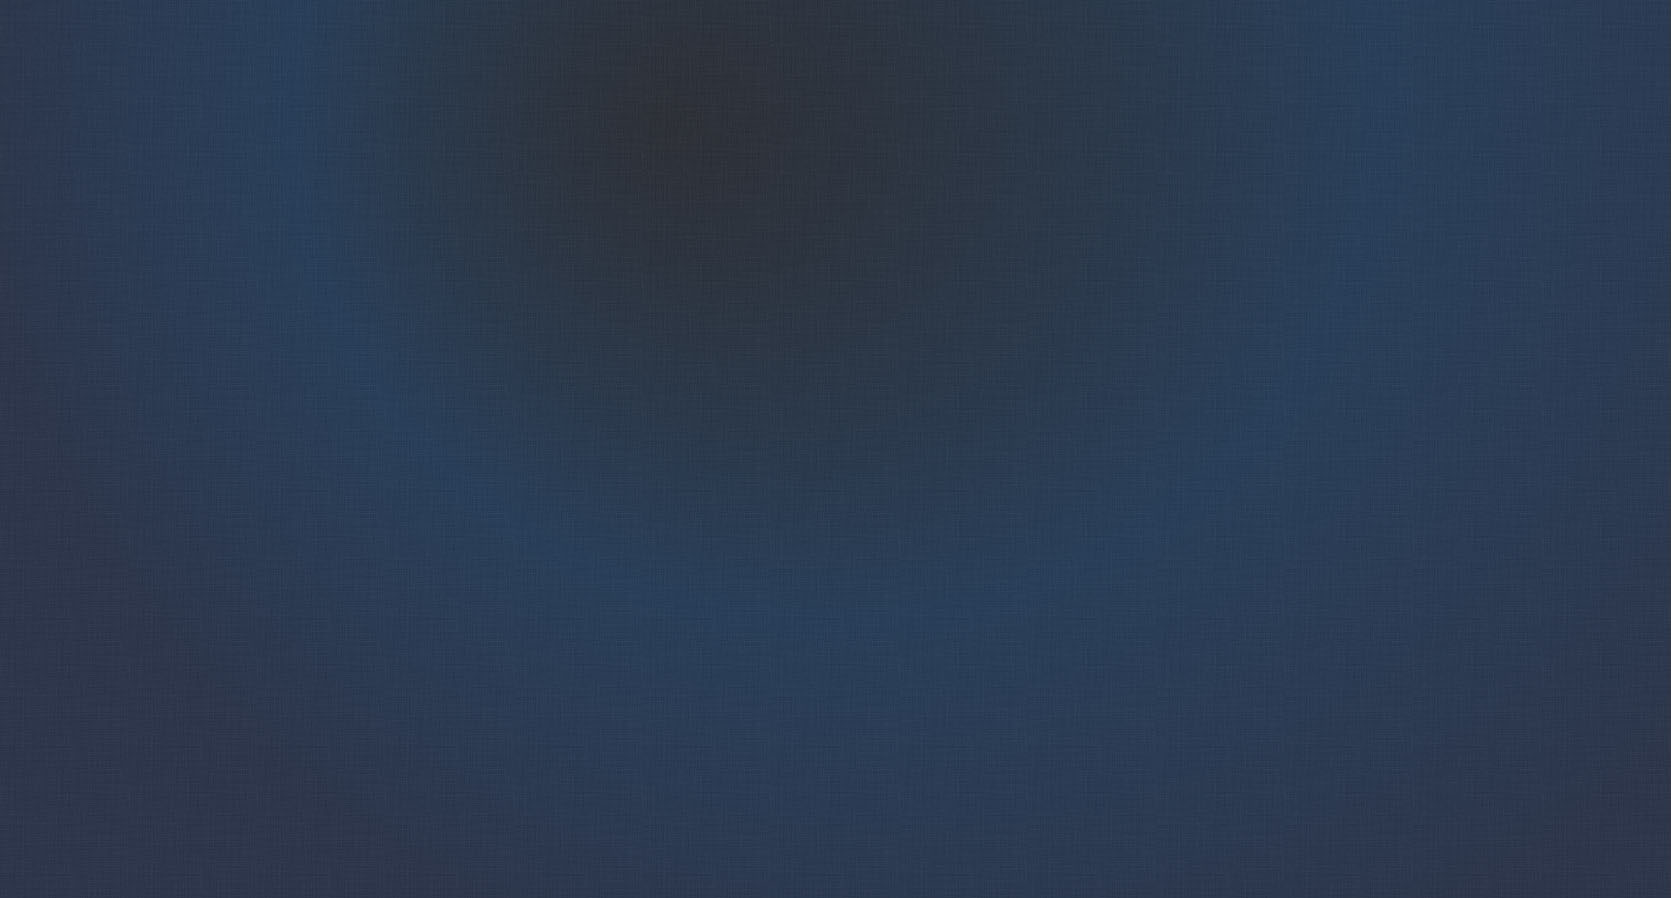
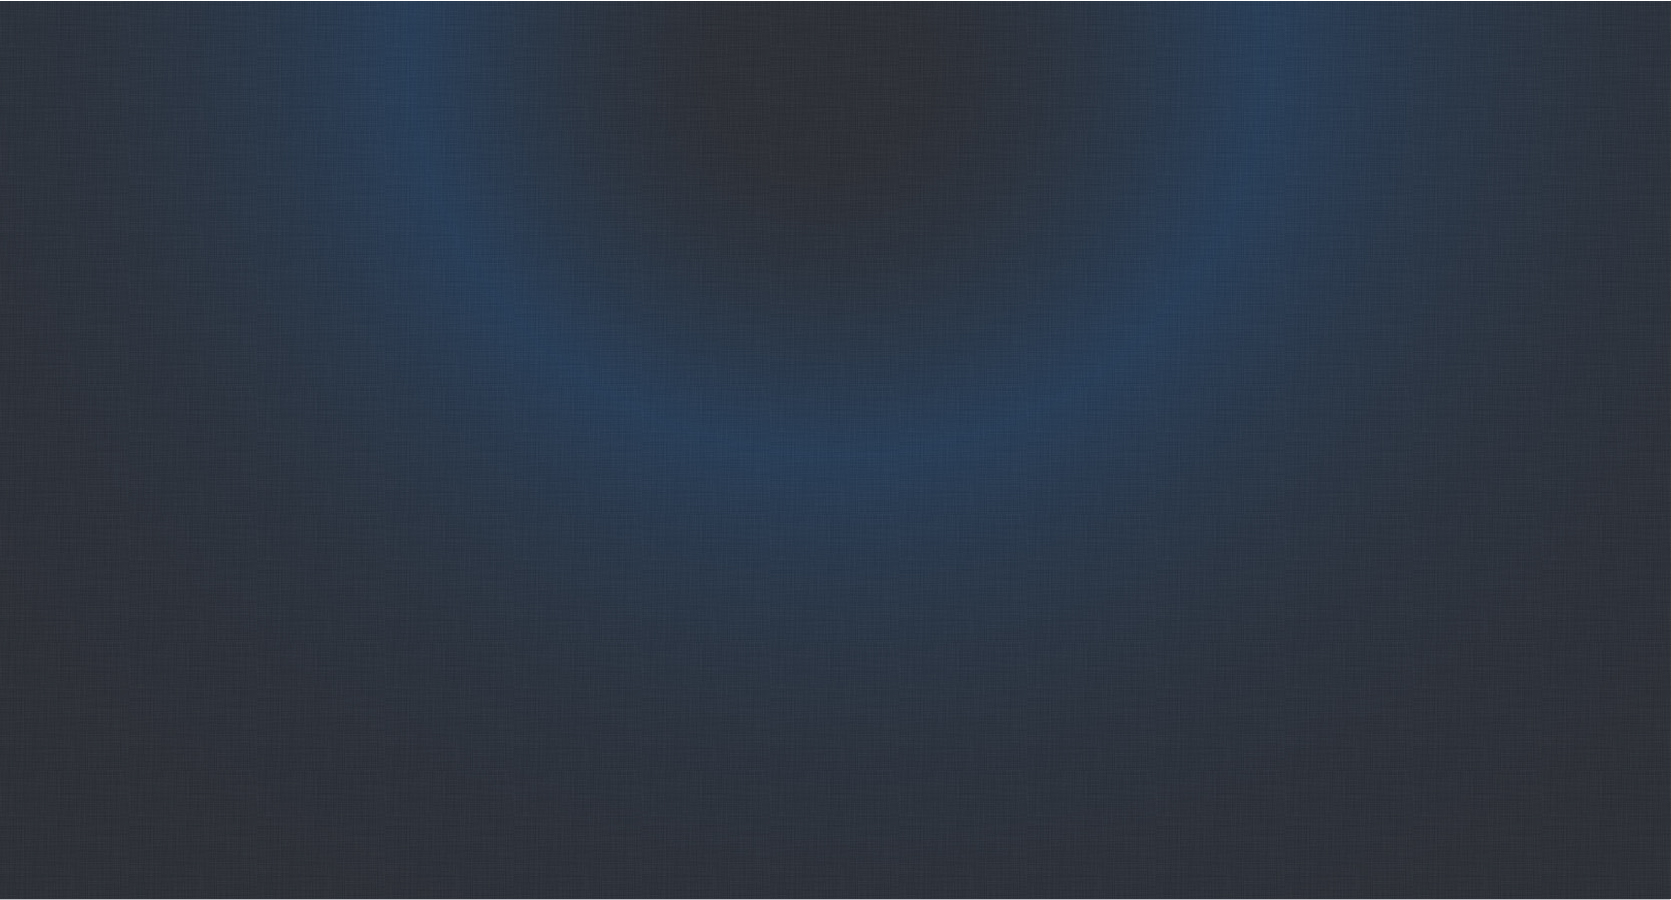
disgin merge

diff --git a/css/blue.css b/css/blue.css
@@ -1,13 +1,16 @@
 @charset "utf-8";
 /* CSS Document */
 *{ -webkit-box-sizing: border-box; box-sizing: border-box; -webkit-user-select: none; outline: none; -webkit-tap-highlight-color: transparent; -webkit-tap-highlight-color: transparent;}
-html,body{ padding:0; margin:0; font-family:"Arial","微软雅黑"; font-size: 14px; color: #fff; background:#2c313a url(../images/bg_blue.jpg) no-repeat fixed; background-size: 100% 100%; }
+html,body{ padding:0; margin:0; font-family:"Arial","微软雅黑"; font-size: 14px; color: #fff; background:#181f28 url(../images/cloth.png) repeat;}
 html,body{-webkit-text-size-adjust:none;} 
 h1,h2,h3,h4,h5,h6,div,span,ul,li,hr,p,input,select{ margin:0; padding:0;}
 ul{list-style-type:none}
 a{ text-decoration:none; border: none;}
 a img{ border: none;}
 form{margin:0; padding:0;}
+button,input,optgroup,select,textarea { color: inherit; font: inherit; margin: 0; }
+button { overflow: visible; }
+button,select {text-transform: none; }
 .clear{ clear:both;}
 .fl{ float:left;}
 .fr{ float:right;}
@@ -16,6 +19,8 @@ form{margin:0; padding:0;}
 .fontGray,a.fontGray{color:#999999;}
 .more{float: right; font-size:12px; color:#999999;}
 
+.globalBg{background:rgba(25,38,62,0.2) url(../images/bg_mark.png) no-repeat fixed; background-size: 100% 100%; width:100%; height:100%;position: fixed; top: 0; bottom: 0; left: 0; right: 0; z-index: 0;}
+.globalBg:after{clear: both;content: "."; display: block;font-size: 1px; height: 0;visibility: hidden;}
 .bgRed{ background: #E75A49;}
 .bgGreen{ background: #33DD00;}
 
@@ -24,16 +29,18 @@ form{margin:0; padding:0;}
 .caret {display: inline-block; width: 0; height: 0;margin-left: 2px;vertical-align: middle; border-top: 4px dashed; border-right: 4px solid transparent; border-left: 4px solid transparent;}
 
 
-a.btn {padding: 4px 12px; border:solid 1px #515D6E; color:#fff; font-size:12px; cursor:pointer; line-height:20px; display:block; float:left; margin:0px;}
-.btn-group-lg a.btn, .btn-lg { padding: 5px 15px !important; }
+a.btn {padding: 4px 25px; border:solid 1px #515D6E; color:#fff; font-size:12px; cursor:pointer; line-height:20px; display:block; float:left; margin:0px;}
+.btn-group-lg a.btn, .btn-lg { padding: 5px 15px !important; font-size:13px;}
 .btn-group-sm a.btn, .btn-sm { padding: 2px 6px !important; font-size:10px;}
 a.btn:hover{background:rgba(25,39,53,1.0);border: 1px solid #5C7589; border-bottom-color:#0B50A2; opacity:1; box-shadow: 0 0 4px rgba(0,0,0,.4);-webkit-box-shadow: 0 0 4px rgba(0,0,0,.4);-moz-box-shadow: 0 0 4px rgba(0,0,0,.4);}
 a.btn-group.open .dropdown-toggle {-webkit-box-shadow: 0 0 0 100px rgba(0, 0, 0, 0.1) inset;box-shadow: 0 0 0 100px rgba(0, 0, 0, 0.1) inset;}
 a.btn-default {background:rgba(25,39,53,0.5);}
 a.btn-primary {background:rgba(25,39,53,0.4);background:-moz-linear-gradient(top, #2A343F, #17222D 70%);background: -webkit-gradient(linear, 0 0, 0 70%, from(#2A343F), to(#17222D));}
-a.dropdown-toggle, a.dropdown-toggle:hover{background:rgba(11,80,162,0.5)}
+a.btn-color {background:rgba(11,80,162,0.6); border-color:#0B50A2;}
+a.btn-light {background:rgba(255,255,255,0.03);border-color:#323b4c;}
+a.dropdown-toggle, a.dropdown-toggle:hover{background:rgba(11,80,162,0.5);border-color:#0B50A2;}
 .dropdown-toggle{position: relative; float: left;}
-.btn.disabled, .btn[disabled]{pointer-events: none;cursor: not-allowed; filter: alpha(opacity=65); -webkit-box-shadow: none; box-shadow: none;opacity: .6;}
+.btn.disabled, .btn[disabled]{pointer-events: none;cursor: not-allowed; filter: alpha(opacity=50); -webkit-box-shadow: none; box-shadow: none;opacity: .5;}
 .btn i{line-height:20px;}
 
 em.statusIcon{width: 18px;text-align: center;height: 18px;line-height: 22px;border-radius: 50%; color:#fff; display:inline-block; -webkit-box-shadow: 0 0 0 100px rgba(0, 0, 0, 0.1) inset;box-shadow: 0 0 0 100px rgba(0, 0, 0, 0.1) inset; }
@@ -61,7 +68,7 @@ a.textlinkb i, .textlinkb a i{vertical-align: text-bottom; width:14px;}
 #content { margin-left: 210px;  margin-top: 45px; padding-top: 15px; min-height: 500px;-webkit-box-flex: 1; -ms-flex: 1 0 auto;flex: 1 0 auto; position: relative;transition: all 0.3s ease;}
 
 /*left---------------------------------------------------*/
-.left_top{ background: rgba(11,80,162,0.8); padding: 10px 2px 8px 16px;  border-bottom:1px solid #000; font-size:12px; }
+.left_top{ background: rgba(11,80,162,0.8); padding: 10px 2px 8px 10px;  border-bottom:1px solid #000; font-size:12px; }
 .left_top .nameTop{ float:left;padding:4px 0;}
 .left_top .name{ float:left; /*font-size:16px;*/ overflow:hidden; width:148px; white-space: nowrap; word-break: keep-all; text-overflow: ellipsis;}
 .left_top .name em{vertical-align: text-bottom; margin-right: 4px;}
@@ -98,17 +105,20 @@ a.textlinkb i, .textlinkb a i{vertical-align: text-bottom; width:14px;}
 .menu li a:hover i{color:#0B50A2;}
 .menu li i{ vertical-align: text-bottom; margin:0 10px 2px 5px; color:#9BA5A7; width:16px;}
 .menu li.open{background:rgba(25,39,53,0.6);}
-.menu li.open a{border-bottom:none; opacity:1.0; background:none;}
+.menu li.open a{border-bottom:none; opacity:1.0; background:none; margin-left:10px;}
 
 ul.sidebarNav{position:absolute; left:0; top:37px; width:100%;}
 ul.sidebarNav li {padding-left:25px;}
 ul.sidebarNav li a{line-height:24px;}
 ul.sidebarNav li a:hover{opacity:1.0; background:rgba(25,39,53,0.8);}
-.menu li.open,ul.sidebarNav li.select{border-left:6px solid #0B50A2; background:rgba(25,39,53,0.8);}
-ul.sidebarNav li.select a{margin-left:9px;opacity:1.0;}
-ul.sidebarNav li.select a:hover{;opacity:1.0;}
+.menu li.open,ul.sidebarNav li.select{border-left:6px solid #0B50A2; background:rgba(25,39,53,.8);}
+ul.sidebarNav li.select{background:rgba(0,0,0,0.15);}
+ul.sidebarNav li.select a{margin-left:9px;}
+ul.sidebarNav li a:hover{background:rgba(0,0,0,0.1);}
+ul.sidebarNav li.select a:hover{background:transparent;}
 .menu li.open > a > i, .menu li .sidebarNav .select a i{color:#fff;}
 .menu li.expand{border-left:0;}
+.menu li.expand a{margin-left:15px;}
 
 /*running task-------------*/
 .taskList {display: block; margin: 0 15px; font-size:12px; opacity:.8;}
@@ -145,7 +155,7 @@ ul.sidebarNav li.select a:hover{;opacity:1.0;}
 .jtTop a,.jtDown a{ border: 1px solid #515D6E; display: block; margin: 0 10%; background: rgba(25,39,53,0.4);}
 .jtTop a:hover,.jtDown a:hover{ background: #0B50A2;}
 .jtTop img,.jtDown img{ padding: 1px;}
-.globalAction a, a.globalAction{ width:21px; height:24px; background:transparent;margin:0 auto; text-align:center; display:inline-block; color:#fff; opacity:.6;}
+.globalAction a, a.globalAction{ width:23px; height:24px; background:transparent;margin:0 auto; text-align:center; display:inline-block; color:#fff; opacity:.6;}
 .globalAction a i{padding-top:4px; transform:scale(1.3)}
 .globalAction a:hover, a.globalAction:hover{opacity:1;}
 .globalAction a:hover i, a.globalAction:hover i{color:#fff;}
@@ -215,7 +225,7 @@ a.collapseBtn i{padding-top:8px;padding-left:11px;}
 .rFloatDiv .actionBar{ margin:20px 10px 10px;}
 
 .rFloatDiv .clusterList{ display: block; width:100%;}
-.rFloatDiv .clusterList li.select{ background: rgba(77,100,120,0.3);}
+.rFloatDiv .clusterList li.select{ background: rgba(255,255,255,0.05)}
 .rFloatDiv .clusterList li a{ margin: 0px 15px 0; padding-top:15px; padding-bottom:10px; overflow:hidden; display:block; border-bottom: 1px solid #364955;}
 .leftPic{ width: 60px; padding-right: 5px; text-align: center; font-size: 12px; color: #9DA5A8; vertical-align:text-bottom;}
 .leftPic span{ text-align:left; width:100%; display:inline-block;padding-top: 2px}
@@ -245,9 +255,9 @@ a.collapseBtn i{padding-top:8px;padding-left:11px;}
 .actionTopbar{margin:8px 0;}
 .actionTopbar:after{clear: both;content: "."; display: block;font-size: 1px; height: 0;visibility: hidden;}
 .filter-group, .filter-group a,.filter-group input{float:left;}
-.filter-group .form-control{padding: 5px; border:solid 1px #515D6E; color:#fff; font-size:12px; cursor:pointer; line-height:20px; padding-left: 10px;background:rgba(25,39,53,0.5); padding-right: 40px; margin-top: 1px; margin-left: 10px;width: 180px;}
+.filter-group .form-control{padding: 5px; border:solid 1px #515D6E; color:#fff; font-size:12px; cursor:pointer; line-height:20px; padding-left: 10px;background:rgba(25,39,53,0.5); padding-right: 40px; margin-top: 0px; margin-left: 10px;margin-right: 0px;width: 180px;}
 .filter-group .form-control:hover{ border:solid 1px #5C7589;}
-.filter-group a.btn {color: rgba(255, 255, 255, 0.7);padding: 5px 10px; margin-left:-1px;margin-top:1px;}
+.filter-group a.btn {color: rgba(255, 255, 255, 0.7);padding: 5px 10px; margin-left:-1px;margin-top:0px;}
 
 
 .dropdown-menu { position: absolute;top:90%; left: 0;z-index: 1010; float: left;min-width: 120px; border: 1px solid #515D6E; -webkit-background-clip: padding-box;background-clip: padding-box;background:rgba(25,39,53,1);  -webkit-box-shadow: 0 6px 12px rgba(0,0,0,.175); box-shadow: 0 6px 12px rgba(0,0,0,.175);}
@@ -258,16 +268,16 @@ ul.dropdown-menu{margin: 2px 0 0;text-align: left; color:#8a9396;font-size: 12px
 .dropdown-menu a{padding: 6px 15px; color:#fff; display:block;}
 .dropdown-menu a:hover{ background: rgba(11,80,162,0.5);}
 .dropdown-menu .divider { height: 1px; margin: 3px 0; overflow: hidden; background-color: #374551;}
-.dropdown-menu .disable a,.dropdown-menu .disable a:hover{color:#374551; background:transparent;}
+.dropdown-menu .disabled a,.dropdown-menu .disabled a:hover{color:#374551; background:transparent;}
 
-.blockArea{padding: 0px 0px 15px; width:100%;float: left;background:rgba(25,39,53,0.2);box-shadow: 0 0 5px rgba(0, 0, 0, 0.15); margin:0 0 10px;}
+.blockArea{padding: 0px 0px 15px; width:100%;float: left;background:rgba(25,39,53,0.4);box-shadow: 0 0 5px rgba(0, 0, 0, 0.2); margin:0 0 10px;}
 .blockArea .slimScrollDiv{position:relative;}
 .blockArea .slimScrollBar,.blockArea .slimScrollRail{ right:-15px; width:14px;}
 .contentDiv:after, .blockArea:after, .floatArea:after{clear: both;content: "."; display: block;font-size: 1px; height: 0;visibility: hidden;}
-.fixedContent { background:rgba(25,39,53,0.9); margin-left:230px;padding-top:5px;}
+.fixedContent { background:rgba(25,39,53,0.9); margin-left:230px;padding-top:3px;}
 .fixedContent :after{clear: both;content: "."; display: block;font-size: 1px; height: 0;visibility: hidden;}
-.fixedContent .tableHeader{margin-top:10px;margin-right:20px;}
-.fixedContent .actionTopbar{margin-left:15px; }
+.fixedContent .tableHeader{margin-top:8px;margin-right:20px;}
+.fixedContent .actionTopbar{margin:4px 0 0px 15px; }
 .floatArea{width:100%;position: fixed;z-index: 1030;left: 0;top: 45px;}
 
 .tableSelectInfo{ width: 40%;color: #8a9396;font-size: 12px;  padding-top: 10px;white-space: nowrap; overflow:hidden;float: left;margin-right: 10px;}
@@ -276,18 +286,23 @@ ul.dropdown-menu{margin: 2px 0 0;text-align: left; color:#8a9396;font-size: 12px
 .fade { -webkit-transition: opacity .3s linear; transition: opacity .3s linear;}
 .popupBackdrop { position: fixed; top: 0; right: 0;bottom: 0;left: 0; z-index: 1080;background-color: #fff; opacity:.1;}
 button.close {-webkit-appearance: none;padding: 0;cursor: pointer;background: 0 0;border: 0;}
-.close {float: right;font-size: 21px; font-weight: 700;line-height: 1;color: #fff;text-shadow: 0 1px 0 #000; filter: alpha(opacity=20);opacity: .2;}
+.close {float: right;font-size: 21px; font-weight: 700;line-height: 1;color: #fff;text-shadow: 0 1px 0 #000; filter: alpha(opacity=20);opacity: .3;}
 button.close:hover{opacity:1;}
 
 .popup{position: fixed;top: 0; right: 0; bottom: 0; left: 0; z-index: 1100; display: none;overflow: hidden; -webkit-overflow-scrolling: touch; outline: 0;}
-.popupDiv{position: relative;width: 600px;margin: 30px auto;}
-.popupContent{ position: relative; border: 1px solid #364955; background: rgba(25,39,53,1) ; box-shadow: 0 0 7px rgba(0,0,0,.7);-webkit-box-shadow: 0 0 7px rgba(0,0,0,.7);-moz-box-shadow: 0 0 7px rgba(0,0,0,.7);min-height:300px;}
+.popupDiv{position: relative;width: 620px;margin: 40px auto 20px;}
+.popupContent{ position: relative; border: 1px solid #000; background: rgba(25,39,53,1) ; box-shadow: 0 0 7px rgba(0,0,0,.7);-webkit-box-shadow: 0 0 7px rgba(0,0,0,.7);-moz-box-shadow: 0 0 7px rgba(0,0,0,.7);min-height:200px;}
 
-.contentHeader{padding:0 15px;background: rgba(0,0,0,0.2);}
-.contentHeader h4{border-bottom: 1px solid #0C50A3; line-height:35px; padding:10px 0 5px;}
+.contentHeader{padding:0 20px;background: rgba(0,0,0,0.1);}
+.contentHeader h4{border-bottom: 1px solid #0C50A3; line-height:35px; padding:10px 0 5px; text-indent:2px; font-size:16px; font-weight:normal;}
 .contentHeader button.close{padding-top:12px;}
-.contentBody{position: relative;padding: 15px;}
-.contentFooter{ padding: 10px 0; text-align: right; border-top:1px solid #364955; margin:0 15px;}
+.contentBody{position: relative;padding: 10px 20px;}
+.contentFooter{ padding: 5px 0 0 20px; text-align: ; border-top:0px solid #364955; margin:0px 20px 20px 20px;}
+.contentHeader:after, .contentBody:after, .contentFooter:after{clear: both;content: "."; display: block;font-size: 1px; height: 0;visibility: hidden;}
+
+.alert { padding: 15px;margin-bottom: 20px;}
+.alert-info {color: #8a9396; background-color: #d9edf7; border: 1px solid transparent; font-size:12px;}
+.contentHeader+.alert {border:none; background:none; padding:10px 20px 5px; margin:0 20px;}
 
 
 

diff --git a/volume/volume.html b/volume/volume.html
@@ -17,6 +17,7 @@
 </head>
 
 <body>
+<div class="globalBg"></div>
 <div class="rFloatDiv">
     <a class="collapseBtn" style="display:;"><i class="zmdi zmdi-format-list-bulleted"></i></a>
 </div>
@@ -149,19 +150,98 @@
                 <div class="popupContent">
                     <div class="contentHeader">
                         <button type="button" class="close" data-dismiss="modal" aria-hidden="true">×</button>
-                        <h4 class="modal-title">Modal Dialog</h4>
+                        <h4>扩展卷－DiaNAS</h4>
+                    </div>
+                    <div class="alert alert-info">
+                    	您已选择扩展卷－DiaNAS的容量，该操作会增加卷中的可用容量。
                     </div>
                     <div class="contentBody">
-                        
-                        
+                    	<table class="table-input">
+                            <tbody >
+                                <tr>
+                                    <td style="width:22%;"><label>当前大小:</label></td>
+                                    <td><input type="text" class="form-control" placeholder="100"><em>GiB</em></td>                                  
+                                </tr>
+                                <tr>
+                                    <td><label>扩展量:</label></td>
+                                    <td><input type="text" class="form-control" placeholder="100"><select class="form-control"><option>GiB</option><option>MiB</option><option>TiB</option></select></td>                                  
+                                </tr>
+                                <tr>
+                                    <td><label>最大最终大小:</label></td>
+                                    <td>1552.00 GiB</td>                                  
+                                </tr>
+                            </tbody>
+                         </table>
                     </div>
-                    <div class="contentFooter">
-                        <a href="javascript:;" id="closeAction" class="btn btn-default m-r-10" data-dismiss="modal">Close</a>
-                        <a href="javascript:;" class="btn btn-primary">Submit</a>
+                    <div class="contentFooter">                       
+                        <a href="javascript:;" id="closeAction" class="btn btn-light" data-dismiss="modal">取消</a>
+                        <a href="javascript:;" class="btn btn-color disabled  m-r-10">扩展</a>
                     </div>
                 </div>
             </div>
         </div>
+        
+        <!--<div class="popup fade" style="display: none;">
+            <div class="popupDiv" style="display:none" id="createVolumePopup">
+                <div class="popupContent">
+                    <div class="contentHeader">
+                        <button type="button" class="close" data-dismiss="modal" aria-hidden="true">×</button>
+                        <h4>迁移卷拷贝</h4>
+                    </div>
+                    <div class="alert alert-info">
+                    	您已选择迁移池Pool 2 中的卷DiaNAS。 请选择该卷将迁移到的新池。源池和目标池的扩展数据块大小必需一致。
+                    </div>
+                    <div class="contentBody">
+                    	<table class="table table-hover">
+                            <thead>
+                                <tr>
+                                    <td></td>
+                                    <td width="15%">名称</td>
+                                    <td width="25%">状态</td>
+                                    <td width="25%">可用容量</td>
+                                    <td width="30%">容量</td>
+                                </tr>
+                             </thead>
+                             <tbody>   
+                                <tr>
+                                    <td><input type="radio"></td>
+                                    <td>Pool 2</td>
+                                    <td>联机</td>
+                                    <td>4.77 TiB</td>
+                                    <td>4.88 TiB</td>
+                                </tr>
+                                <tr>
+                                    <td><input type="radio"></td>
+                                    <td>Pool 2</td>
+                                    <td>联机</td>
+                                    <td>4.77 TiB</td>
+                                    <td>4.88 TiB</td>
+                                </tr>
+                                <tr class="selected">
+                                    <td><input type="radio"></td>
+                                    <td>Pool 2</td>
+                                    <td>联机</td>
+                                    <td>4.77 TiB</td>
+                                    <td>4.88 TiB</td>
+                                </tr>
+                                <tr>
+                                    <td><input type="radio"></td>
+                                    <td>Pool 2</td>
+                                    <td>联机</td>
+                                    <td>4.77 TiB</td>
+                                    <td>4.88 TiB</td>
+                                </tr>
+                             </tbody>   
+                         </table>
+                    </div>
+                    <div class="contentFooter">
+                        
+                        <a href="javascript:;" id="closeAction" class="btn btn-light  m-r-10" data-dismiss="modal">取消</a>
+                        <a href="javascript:;" class="btn btn-color">迁移</a>
+                    </div>
+                </div>
+            </div>
+        </div>-->
             
         <div class="blockArea">
             <div class="tableBody">

diff --git a/css/component.css b/css/component.css
@@ -244,6 +244,33 @@
 }
 
 
+/*-Input-*/
+.form-control {
+  display: inline-block;
+  width: auto;
+  padding: 4px 10px;
+  margin:0px 4px;
+  line-height:20px;
+  font-size: 12px;
+  color: #fff;
+  background:rgba(25,39,53,1);
+  background-image: none;
+  border: 1px solid #515D6E;
+  border-radius:0;
+  -webkit-box-shadow: inset 0 1px 1px rgba(0,0,0,.075);
+  box-shadow: inset 0 1px 1px rgba(0,0,0,.075);
+  -webkit-transition: border-color ease-in-out .15s,-webkit-box-shadow ease-in-out .15s;
+  -o-transition: border-color ease-in-out .15s,box-shadow ease-in-out .15s;
+  transition: border-color ease-in-out .15s,box-shadow ease-in-out .15s;}
+.form-control:focus {
+  background: rgba(255,255,255,0.05);
+  border: 1px solid #5C7589;
+  box-shadow: none;
+  color:#fff;
+}
+select.form-control{
+	height: 28px;
+  line-height: 28px; border-radius: 3px;}
 /* ===========
    Tables
  =============*/
@@ -324,3 +351,26 @@ table thead .sorting_asc_disabled:after,
 table thead .sorting_desc_disabled:after {
 	color: #eee;
 }
+
+
+label{display: inline-block;max-width: 100%;}
+.table-input td{padding:4px; line-height:22px;}
+.contentBody table{background: rgba(0,0,0,.05); font-size:12px;}
+.contentBody table thead{background: rgba(0,0,0,.05);}
+.contentBody table > tbody > tr >  td,.contentBody table > thead > tr >  td{padding:6px; border-bottom-color:#2b3243;}
+table > tbody > tr > td:first-child > label {
+  padding-top:;
+  margin-bottom: 0;
+  /*float: right;*/}
+.contentBody table > tbody > tr > td:first-child,.contentBody table > thead > tr > th:first-child {
+    padding-left:20px;
+}
+.contentBody table > tbody > tr > td:last-child,.contentBody table > thead > tr > th:last-child {
+    padding-right:20px;
+} 
+.contentBody table > tbody > tr.selected{background:rgba(11,80,162,0.5);} 
+.contentFooter a{ float:right;}
+table > tbody > tr > td > .form-control{
+	margin-left:0;}
+.table-input em{ font-size:12px; font-style:normal; opacity:.7;}	
+  

diff --git a/index.html b/index.html
@@ -17,6 +17,7 @@
 </head>
 
 <body>
+<div class="globalBg"></div>
 <div class="rFloatDiv active">
 	<a class="collapseBtn" style="display:none;"><i class="zmdi zmdi-format-list-bulleted"></i></a>
     <a class="collapseBtn"><i class="zmdi zmdi-close"></i></a>
@@ -202,7 +203,7 @@
                 <ul>        
                     <li class="expand open" style="height:134px;"><a href="#"><i class="zmdi zmdi-view-dashboard"><!--fa fa-dashboard--></i><span>监视</span></a>
                         <ul class="sidebarNav">
-                            <li class="select"><a href="volume/volume.html"><i class="fa fa-laptop"></i><span>系统</span></a></li>
+                            <li class="select"><a href="#"><i class="fa fa-laptop"></i><span>系统</span></a></li>
                             <li><a href="#"><i class="zmdi zmdi-notifications-none"></i><span>事件</span></a></li>
                             <li><a href="#"><i class="fa fa-bar-chart"></i><span>性能</span></a></li>
                         </ul>
